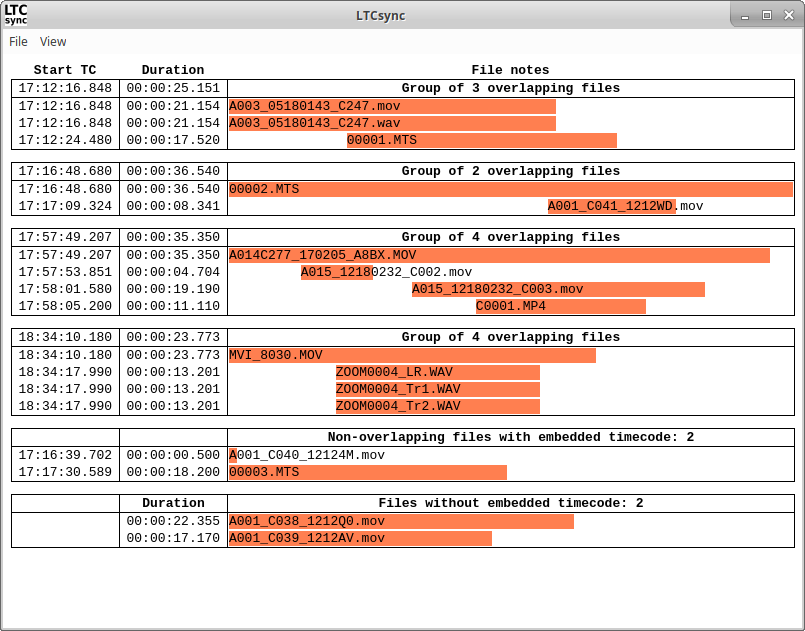
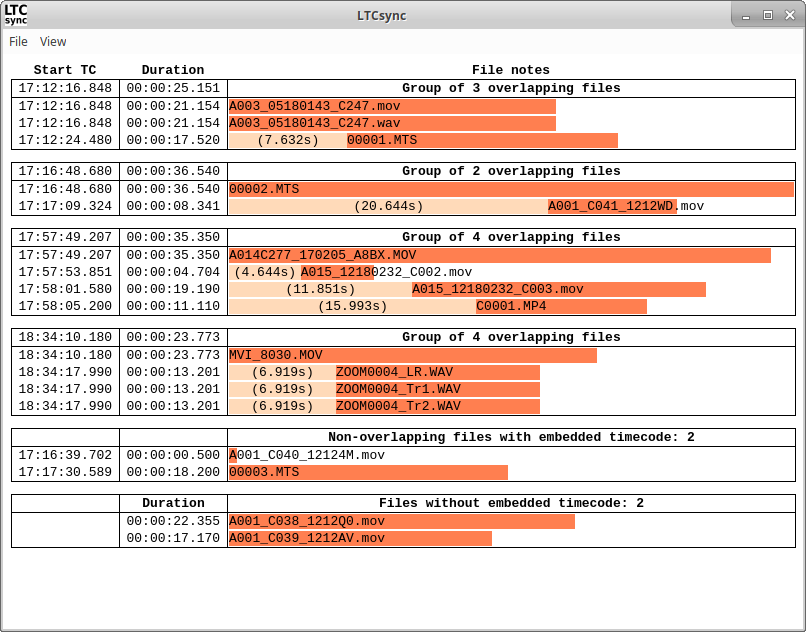
resolves #11: display offset of files within group

Changed region(s): [[0.0, 0.0903, 0.9938, 0.8732], [0.4348, 0.0, 0.4969, 0.0301]]

diff --git a/ltcsync.js b/ltcsync.js
@@ -57,13 +57,27 @@ function file_to_html(file, group_bounds) {
   e.appendChild(document.createElement("td")).innerHTML=pretty_time(eval(file.ffprobe.format.duration));
 
   const fnc=e.appendChild(document.createElement("td"));
-  fnc.setAttribute("class", "name");
-  const fn=fnc.appendChild(document.createElement("span"));
-  fn.innerHTML = path.basename(file.ffprobe.format.filename);
+  fnc.setAttribute("class", "file");
+
   const lb=longest_bounds(document.editing_session);
+
+  if(file.bounds().start && group_bounds) {
+    // file is in a group of overlapping files
+    const padding_s = file.bounds().start-group_bounds.start;
+    if (padding_s) {
+      // file needs padding relative to group
+      const fp=fnc.appendChild(document.createElement("span"));
+      fp.setAttribute("class", "padding");
+      fp.setAttribute("style", `width: ${padding_s/lb*100}%;`);
+      fp.innerHTML = `(${padding_s.toFixed(3)}s)`;
+    }
+  }
+
   const width=eval(file.ffprobe.format.duration)/lb;
-  const margin_left=(file.bounds().start && group_bounds) ? (file.bounds().start-group_bounds.start)/lb : 0;
-  fn.setAttribute("style", `width: ${width*100}%; margin-left: ${margin_left*100}%`);
+  const fn=fnc.appendChild(document.createElement("span"));
+  fn.setAttribute("class", "name");
+  fn.innerHTML = path.basename(file.ffprobe.format.filename);
+  fn.setAttribute("style", `width: ${width*100}%;`);
   
   return e;
 }

diff --git a/ltcsync.css b/ltcsync.css
@@ -3,7 +3,7 @@ body {
 }
 
 #filedisplay table {
-    white-space: nowrap;
+    white-space: pre;
     width: 100%;
     border-collapse: collapse;
 }
@@ -30,15 +30,23 @@ td, .group-header th {
     border-right: solid thin;
 }
 
-.name {
+.file {
     width: 100%;
     padding: 1px;
 }
 
-.name > span {
+.file > span {
     display: inline-block;
     overflow: visible;
-    background: coral;
+}
+
+.file > span.name {
+    background: Coral;
+}
+
+.file > span.padding {
+    background: PeachPuff;
+    text-align: center;
 }
 
 
